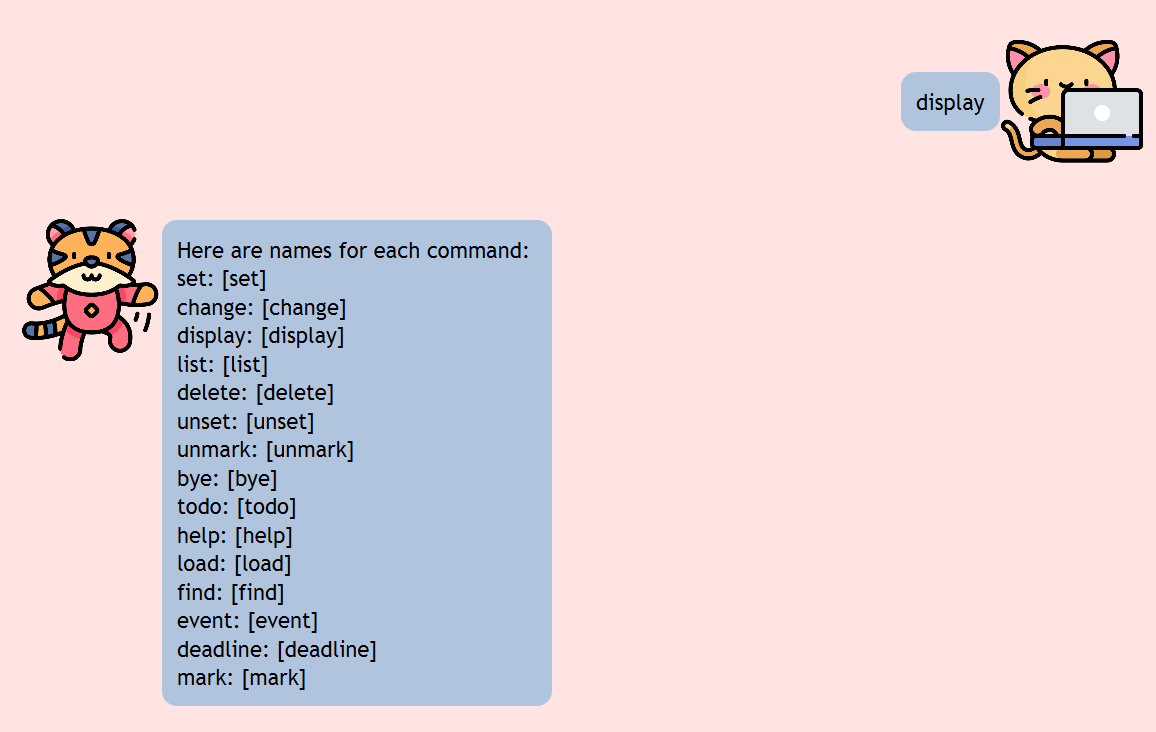
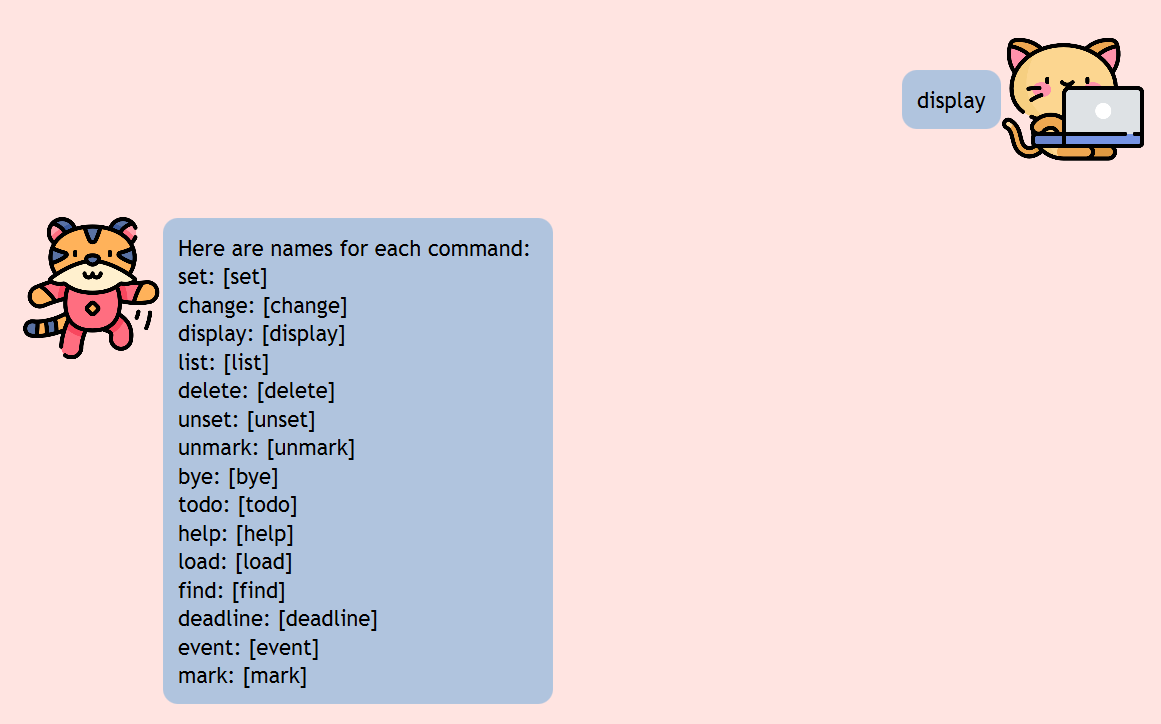
Update UserGuide

Changed region(s): [[0.0, 0.3039, 0.4671, 0.9724], [0.7785, 0.0304, 0.9965, 0.2431]]

diff --git a/src/main/java/duke/command/HelpCommand.java b/src/main/java/duke/command/HelpCommand.java
@@ -35,27 +35,28 @@ public class HelpCommand extends Command {
     public void execute(TaskList taskList, Storage storage) {
 
         commandMessage = "Here is the list of commands that you can use! \n"
-                + "\n=== === === === === === === ===        general commands        === === === === === === === ===\n"
-                + "bye - to exit the program \n"
-                + "find 'keyword' - to find tasks that has the matching keyword \n"
-                + "help - to see the list of commands \n"
+                + "\n=== === === === === === === ===     task related commands     === === === === === === === ===\n"
+                + "todo [description] - to add new todo task \n"
+                + "deadline [description] /by [due date YYYY-MM-DD HH:mm] - to add new deadline task \n"
+                + "event [description] /from [start YYYY-MM-DD HH:mm] /to [start YYYY-MM-DD HH:mm] - to add new event task \n"
+                + "mark [task index] - to mark the specified task to be done \n"
+                + "unmark [task index] - to unmark the specified task to be undone \n"
+                + "delete [task index] - to delete the specified task from current task list \n"
+                + "list - to list all available commands \n"
+                + "find [keyword] - to find tasks that has the matching keyword \n"
                 + "=== === === === === === === === === === === === === === === === === === === === === === ===\n"
                 + "\n=== === === === === === === ===     file related commands     === === === === === === === ===\n"
-                + "change 'file_name' - to change to new task list \n"
-                + "load 'file_name' - to load a new task list in addition to current task list \n"
-                + "=== === === === === === === === === === === === === === === === === === === === === === ===\n"
-                + "\n=== === === === === === === ===     task related commands     === === === === === === === ===\n"
-                + "todo 'task_name' - to add new todo task \n"
-                + "deadline 'task_name' /by YYYY-MM-DD HH:mm - to add new deadline task \n"
-                + "event 'task_name' /from YYYY-MM-DD HH:mm/to YYYY-MM-DD HH:mm - to add new event task \n"
-                + "mark 'task_number' - to mark the specified task to be done \n"
-                + "unmark 'task_number' - to unmark the specified task to be undone \n"
-                + "delete 'task_number' - to delete the specified task from current task list \n"
+                + "load [file name] - to load a new task list in addition to current task list \n"
+                + "change [file name] - to change to new task list \n"
                 + "=== === === === === === === === === === === === === === === === === === === === === === ===\n"
                 + "\n=== === === === === === === === command related commands === === === === === === === ===\n"
                 + "display - to see the list of command names for each command type \n"
-                + "set 'new_command_name' 'command_type' - to add new name to specified command \n"
-                + "unset 'command_name' 'command_type' - to delete the specified command name \n"
+                + "set [command type] [command name] - to add new name to specified command \n"
+                + "unset [command type] [command name] - to delete the specified command name \n"
+                + "=== === === === === === === === === === === === === === === === === === === === === === ===\n"
+                + "\n=== === === === === === === ===        general commands        === === === === === === === ===\n"
+                + "help - to see the list of commands \n"
+                + "bye - to exit the program \n"
                 + "=== === === === === === === === === === === === === === === === === === === === === === ===\n"
                 + "\nHope this helped!";
     }

diff --git a/src/main/java/duke/list/CommandList.java b/src/main/java/duke/list/CommandList.java
@@ -20,20 +20,20 @@ public class CommandList {
         commandNameList = new HashMap<>();
         commandTypeList = new HashMap<>();
         addCommandName("todo", "todo");
-        addCommandName("event", "event");
         addCommandName("deadline", "deadline");
-        addCommandName("delete", "delete");
-        addCommandName("bye", "bye");
-        addCommandName("find", "find");
-        addCommandName("list", "list");
+        addCommandName("event", "event");
         addCommandName("mark", "mark");
         addCommandName("unmark", "unmark");
-        addCommandName("set", "set");
-        addCommandName("unset", "unset");
+        addCommandName("delete", "delete");
+        addCommandName("list", "list");
+        addCommandName("find", "find");
         addCommandName("load", "load");
         addCommandName("change", "change");
-        addCommandName("help", "help");
         addCommandName("display", "display");
+        addCommandName("set", "set");
+        addCommandName("unset", "unset");
+        addCommandName("help", "help");
+        addCommandName("bye", "bye");
     }
 
     /**

diff --git a/docs/README.md b/docs/README.md
@@ -11,6 +11,7 @@
       - Mark
       - Unmark
       - Delete
+      - List
       - Find
     - File Related Command
       - Load
@@ -22,8 +23,7 @@
     - General Command
       - Help
       - Bye
-3. FAQ
-4. Command Summary
+3. Command Summary
 ## Getting Started
 1. Download Kora from [this page](https://github.com/dlathyun/ip)
 2. Start using!
@@ -84,7 +84,7 @@ Format: `list`
 
 Example: `list`
 
-![delete](../src/main/resources/images/list.png)
+![list](../src/main/resources/images/list.png)
 #### Finding task: `find`
 Finds tasks by keyword.
 
@@ -152,7 +152,26 @@ Format: `bye`
 Example: `bye`
 
 ![bye](../src/main/resources/images/bye.png)
-## FAQ
+
 ## Command Summary
+
+| Command    |                                      Format                                       |
+|------------|:---------------------------------------------------------------------------------:|
+| `todo`     |                               `todo [description]`                                |
+| `deadline` |             `deadline [description] /by [due date YYYY-MM-DD HH:mm]`              |
+| `event`    | `event [description] /from [start YYYY-MM-DD HH:mm] /to [start YYYY-MM-DD HH:mm]` |
+| `mark`     |                                `mark [task index]`                                |
+| `unmark`   |                               `unmark [task index]`                               |
+| `delete`   |                               `delete [task index]`                               |
+| `list`     |                                      `list`                                       |
+| `find`     |                                 `find [keyword]`                                  |
+| `load`     |                                `load [file name]`                                 |
+| `change`   |                               `change [file name]`                                |
+| `display`  |                                     `display`                                     |
+| `set`      |                        `set [command type] [command name]`                        |
+| `unset`    |                       `unset [command type] [command name]`                       |
+| `help`     |                                      `help`                                       |
+| `bye`      |                                      `bye`                                        |
+
 
 ![Have fun using Kora!](https://img.freepik.com/premium-vector/tiger-character-hanbok_279539-11.jpg)
